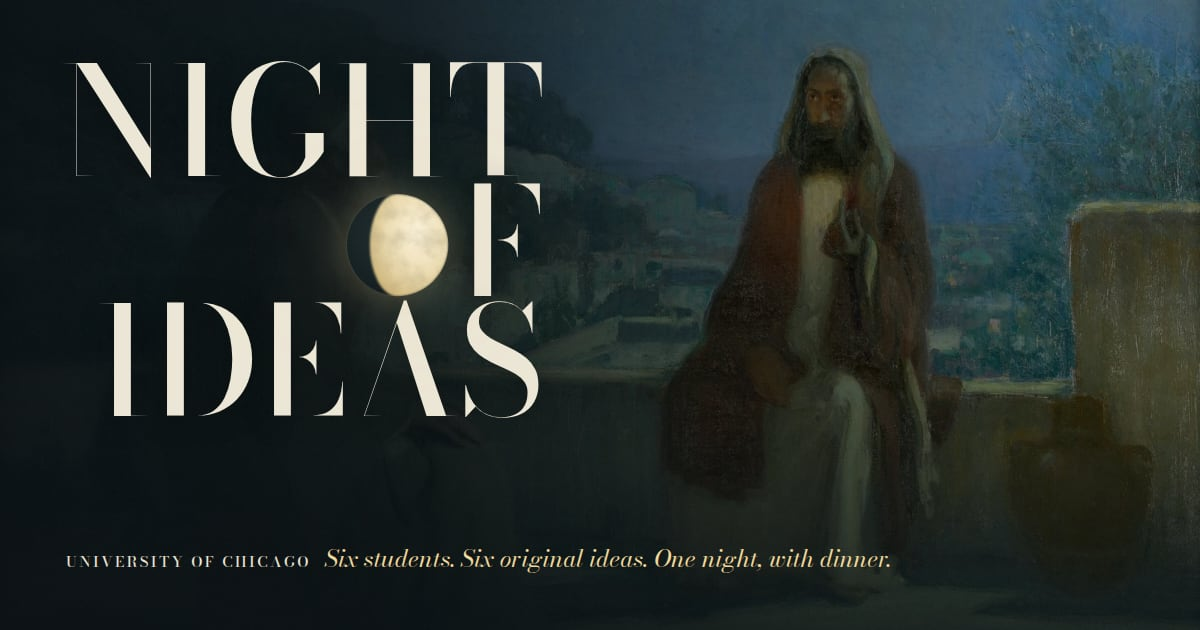
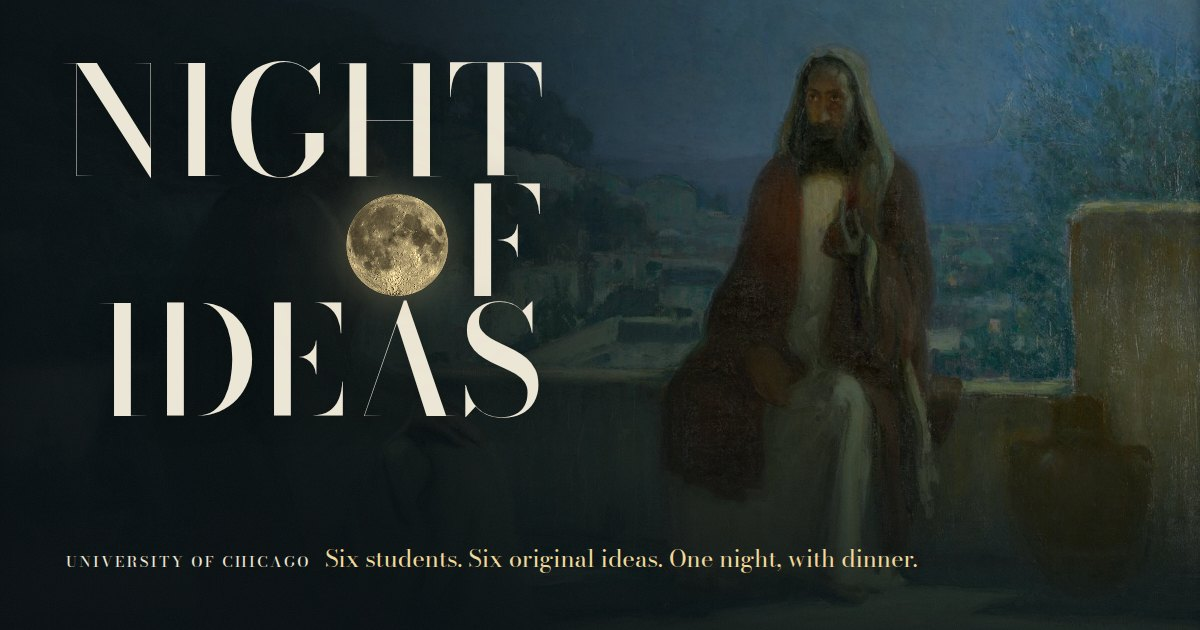
Name speakers given name first and set everything upright.
Bylines read "Cece Rodriguez" instead of "RODRIGUEZ Cece", and the
catalogue shows "name — title" with the title in the brighter tone.
Italics are gone site-wide (titles, article numbers, asides, captions),
and the link-preview image is redrawn with a full moon and an upright
tagline. DESIGN.md and README.md describe the new rules.

Claude-Session: https://claude.ai/code/session_01CcLLmcSxVBUXkM5cqfKuey

Changed region(s): [[0.2467, 0.8746, 0.7708, 0.9048], [0.2775, 0.3016, 0.37, 0.4825]]

diff --git a/index.html b/index.html
@@ -224,37 +224,37 @@
 
         <div class="cartels" data-cartels>
           <article class="cartel" data-cartel>
-            <p class="cartel__name"><span class="cartel__no">1.</span> <span class="caps">Pryma</span> Reilly</p>
+            <p class="cartel__name"><span class="cartel__no">1.</span> Reilly Pryma</p>
             <h3 class="cartel__title">Meditations on Meditations on Moloch</h3>
             <p class="cartel__desc">A reply to Scott Alexander’s essay on Moloch, the god of races to the bottom, by way of Ginsberg’s <i>Howl</i>, Socrates and Wittgenstein, and ending on Nietzsche’s charge that the will to a system is a lack of honesty.</p>
             <a class="cartel__link" href="https://docs.google.com/presentation/d/1SS0yWVlosdCCcnpw1D09NTxr96qNDYa3H1WAOxFqE1Y/edit?usp=sharing" target="_blank" rel="noopener">View the slides<span class="visually-hidden"> for Meditations on Meditations on Moloch (new tab)</span></a>
           </article>
           <article class="cartel" data-cartel>
-            <p class="cartel__name"><span class="cartel__no">2.</span> <span class="caps">Lopez Molina</span> Violeta</p>
+            <p class="cartel__name"><span class="cartel__no">2.</span> Violeta Lopez Molina</p>
             <h3 class="cartel__title">Relational Space(s): Thinking with Bubbles</h3>
             <p class="cartel__desc">Against the solitary Cartesian thinker, and the self-care influencer who may be his heir, a case from Sloterdijk’s <i>Spheres</i>: subjectivity as two or more parties open to each other.</p>
             <a class="cartel__link" href="https://docs.google.com/presentation/d/1Iz9mKYSu8uoheLjNLzFzfTCSYpkyISvw/edit?usp=sharing&amp;ouid=102077671114503182265&amp;rtpof=true&amp;sd=true" target="_blank" rel="noopener">View the slides<span class="visually-hidden"> for Relational Space(s): Thinking with Bubbles (new tab)</span></a>
           </article>
           <article class="cartel" data-cartel>
-            <p class="cartel__name"><span class="cartel__no">3.</span> <span class="caps">Rodriguez</span> Cece</p>
+            <p class="cartel__name"><span class="cartel__no">3.</span> Cece Rodriguez</p>
             <h3 class="cartel__title">Being After God</h3>
             <p class="cartel__desc">Heidegger’s history of Being read as a history of nihilism: from Plato’s two worlds, through Nietzsche and the death of God, to what there is left to do.</p>
             <a class="cartel__link" href="https://docs.google.com/presentation/d/13Kh0zhUCs1kIHJUQSlHZTBn3w5zzzy_K2cqirZG8eKI/edit?usp=sharing" target="_blank" rel="noopener">View the slides<span class="visually-hidden"> for Being After God (new tab)</span></a>
           </article>
           <article class="cartel" data-cartel>
-            <p class="cartel__name"><span class="cartel__no">4.</span> <span class="caps">Quek</span> Shawn</p>
+            <p class="cartel__name"><span class="cartel__no">4.</span> Shawn Quek</p>
             <h3 class="cartel__title">Frats &amp; Butlerian Brotherhood</h3>
             <p class="cartel__desc">Fraternal community and masculine performativity, read through Judith Butler, followed by the offended, the critics and the validated, ending on a puzzle.</p>
             <a class="cartel__link" href="https://docs.google.com/presentation/d/1JxJyHOG362gN1ASZHkTMVCdQNswj5mI6/edit?usp=sharing&amp;ouid=102077671114503182265&amp;rtpof=true&amp;sd=true" target="_blank" rel="noopener">View the slides<span class="visually-hidden"> for Frats and Butlerian Brotherhood (new tab)</span></a>
           </article>
           <article class="cartel" data-cartel>
-            <p class="cartel__name"><span class="cartel__no">5.</span> <span class="caps">Lee</span> Noah</p>
+            <p class="cartel__name"><span class="cartel__no">5.</span> Noah Lee</p>
             <h3 class="cartel__title">Minecraft Democracy</h3>
             <p class="cartel__desc">“I started the largest direct democracy in Minecraft history.” Its rise, coup, and collapse, and what the simulation suggests about the state of nature, hyper-online politics, and our own world.</p>
             <a class="cartel__link" href="https://docs.google.com/presentation/d/1rr6byTItzAnvl8Jy5PTz5A5KCxLAaAU_WzdNoThCmtY/edit?usp=sharing" target="_blank" rel="noopener">View the slides<span class="visually-hidden"> for Minecraft Democracy (new tab)</span></a>
           </article>
           <article class="cartel" data-cartel>
-            <p class="cartel__name"><span class="cartel__no">6.</span> <span class="caps">Miele</span> Ben</p>
+            <p class="cartel__name"><span class="cartel__no">6.</span> Ben Miele</p>
             <h3 class="cartel__title">Poetry and Recorded Music</h3>
             <p class="cartel__desc">If our tastes haven’t changed since 1870, why did poetry lose its readers and grow strange? The phonograph: once recorded music could satisfy the appetite for structured language, poetry made itself unsingable, much as painting stopped imitating reality once photography arrived.</p>
             <a class="cartel__link" href="https://drive.google.com/file/d/1-dcGc1nfGQzXbfjJJ_neOKI1l-GnbH-O/view?usp=sharing" target="_blank" rel="noopener">View the slides<span class="visually-hidden"> for Poetry and Recorded Music (new tab)</span></a>
@@ -270,12 +270,12 @@
         <nav class="catalogue" aria-label="Catalogue of past talks" data-catalogue hidden>
           <h3 class="catalogue__title">Catalogue</h3>
           <ol class="catalogue__list">
-            <li><button type="button" data-goto="0"><span class="catalogue__no">1.</span> <span class="caps">Pryma</span> Reilly. <i>Meditations on Meditations on Moloch</i></button></li>
-            <li><button type="button" data-goto="1"><span class="catalogue__no">2.</span> <span class="caps">Lopez Molina</span> Violeta. <i>Relational Space(s): Thinking with Bubbles</i></button></li>
-            <li><button type="button" data-goto="2"><span class="catalogue__no">3.</span> <span class="caps">Rodriguez</span> Cece. <i>Being After God</i></button></li>
-            <li><button type="button" data-goto="3"><span class="catalogue__no">4.</span> <span class="caps">Quek</span> Shawn. <i>Frats &amp; Butlerian Brotherhood</i></button></li>
-            <li><button type="button" data-goto="4"><span class="catalogue__no">5.</span> <span class="caps">Lee</span> Noah. <i>Minecraft Democracy</i></button></li>
-            <li><button type="button" data-goto="5"><span class="catalogue__no">6.</span> <span class="caps">Miele</span> Ben. <i>Poetry and Recorded Music</i></button></li>
+            <li><button type="button" data-goto="0"><span class="catalogue__no">1.</span> Reilly Pryma — <i>Meditations on Meditations on Moloch</i></button></li>
+            <li><button type="button" data-goto="1"><span class="catalogue__no">2.</span> Violeta Lopez Molina — <i>Relational Space(s): Thinking with Bubbles</i></button></li>
+            <li><button type="button" data-goto="2"><span class="catalogue__no">3.</span> Cece Rodriguez — <i>Being After God</i></button></li>
+            <li><button type="button" data-goto="3"><span class="catalogue__no">4.</span> Shawn Quek — <i>Frats &amp; Butlerian Brotherhood</i></button></li>
+            <li><button type="button" data-goto="4"><span class="catalogue__no">5.</span> Noah Lee — <i>Minecraft Democracy</i></button></li>
+            <li><button type="button" data-goto="5"><span class="catalogue__no">6.</span> Ben Miele — <i>Poetry and Recorded Music</i></button></li>
           </ol>
         </nav>
 

diff --git a/assets/css/style.css b/assets/css/style.css
@@ -146,7 +146,8 @@ a { color: inherit; }
 
 h1, h2, h3, p { margin: 0; }
 
-i, em { font-style: italic; }
+/* No italics on this site: titles of works stand apart by colour, never by slant. */
+i, em { font-style: normal; }
 
 .visually-hidden {
   position: absolute !important;
@@ -160,12 +161,6 @@ i, em { font-style: italic; }
   border: 0;
   text-transform: none;
   letter-spacing: normal;
-}
-
-.caps {
-  text-transform: uppercase;
-  letter-spacing: 0.1em;
-  font-size: 0.86em;
 }
 
 .skip {
@@ -479,7 +474,6 @@ i, em { font-style: italic; }
   margin-top: clamp(22px, 3.2vh, 36px);
   max-width: 31em;
   font-family: var(--display);
-  font-style: italic;
   font-variation-settings: "opsz" 20;
   font-size: clamp(1rem, 1.3vw, 1.1875rem);
   line-height: 1.45;
@@ -869,7 +863,6 @@ i, em { font-style: italic; }
 }
 .cartel__no {
   font-family: var(--display);
-  font-style: italic;
   font-variation-settings: "opsz" 11;
   font-variant-numeric: lining-nums;
   color: var(--gilt-hi);
@@ -887,7 +880,6 @@ i, em { font-style: italic; }
 .cartel__title {
   margin-top: 12px;
   font-family: var(--display);
-  font-style: italic;
   font-weight: 500;
   font-variation-settings: "opsz" 22;
   font-size: clamp(1.75rem, 3vw, 2.6rem);
@@ -898,7 +890,6 @@ i, em { font-style: italic; }
 .cartel__sub {
   margin-top: 6px;
   font-family: var(--display);
-  font-style: italic;
   font-variation-settings: "opsz" 20;
   font-size: 1.0625rem;
   color: var(--claret-text-2);
@@ -988,6 +979,7 @@ i, em { font-style: italic; }
   transform-origin: left;
   transition: transform 0.3s var(--ease-out);
 }
+.catalogue__list i { color: var(--claret-text); transition: color 0.2s ease; }
 .catalogue__list button[aria-current="true"] { color: var(--claret-text); }
 .catalogue__list button[aria-current="true"]::before { transform: scaleX(1); }
 .catalogue__list button[aria-current="true"] i { color: var(--gilt-hi); }
@@ -1009,7 +1001,6 @@ i, em { font-style: italic; }
 }
 .hors-concours__term {
   font-family: var(--display);
-  font-style: italic;
   font-variation-settings: "opsz" 20;
   color: var(--gilt-hi);
 }
@@ -1072,7 +1063,6 @@ i, em { font-style: italic; }
   letter-spacing: -0.004em;
 }
 .article__no {
-  font-style: italic;
   font-weight: 400;
   font-variation-settings: "opsz" 11;
   color: var(--gilt);
@@ -1146,7 +1136,6 @@ i, em { font-style: italic; }
 .annunciation__aside {
   margin-top: 22px;
   font-family: var(--display);
-  font-style: italic;
   font-variation-settings: "opsz" 20;
   font-size: 1.0625rem;
   color: var(--umber-text-2);

diff --git a/DESIGN.md b/DESIGN.md
@@ -111,7 +111,7 @@ components:
 
 Night of Ideas is presented as a juried Salon held after dark, and the site is its livret, the catalogue a visitor carried through the galleries. The ground is Henry Ossawa Tanner's nocturne blue-green, nearly black. Text is moonlight, never pure white. Everything precious is gilt, and gilt is a material, never a gradient: carved frames come from a photograph of a real Louis XIV-style frame, and buttons and the picture rail are honest flat gold with a dark rim. The page moves through rooms: the rooftop nocturne, the claret Salon wall where past talks hang frame to frame on cords, the règlement beside a lamp-lit plate, and the Annunciation's warm room for applying.
 
-Imagery is real and credited: public-domain paintings, real title slides from past talks, and a NASA lunar photograph for the moon that stands in for the O in the logo. Typography is a 19th-century Didone (Bodoni Moda) for display and an Old Standard "modern" text face for reading. Both are set the way a catalogue is set: SURNAME (Given) bylines, numbered entries, italic titles of works, run-in article numbers.
+Imagery is real and credited: public-domain paintings, real title slides from past talks, and a NASA lunar photograph for the moon that stands in for the O in the logo. Typography is a 19th-century Didone (Bodoni Moda) for display and an Old Standard "modern" text face for reading. Both are set the way a catalogue is set: given-name-first bylines, numbered entries, upright titles of works, run-in article numbers.
 
 Motion is lamplight and drift. The name surfaces from blur as the moon waxes into its O. Plates unveil top-down. The gallery wall moves on a spring, and its frames swing slightly on their cords. Every animation has a reduced-motion path that keeps all content visible.
 
@@ -152,23 +152,25 @@ The palette is a night gallery: one near-black blue-green ground, warm moonlit t
 ## Typography
 
 **Display Font:** Bodoni Moda (variable, opsz 6–96, wght 400–900), with Bodoni 72 and Didot as fallbacks
-**Body Font:** Old Standard TT (400, 400 italic, 700), with Georgia as fallback
+**Body Font:** Old Standard TT (400, 700), with Georgia as fallback
 
-**Character:** A Didot-era display face paired with a 19th-century "modern" book face, the type a Salon livret was actually printed in. Italics carry titles of works. Small capitals with tracking carry bylines and labels.
+**Character:** A Didot-era display face paired with a 19th-century "modern" book face, the type a Salon livret was actually printed in. Everything is set upright: the site uses no italics, so serif and slant never stack. Titles of works stand apart by colour or position. Tracked capitals carry labels.
 
 ### Hierarchy
 - **Lockup** (500, clamp(4.4rem, 12.2vw, 13.25rem), 0.8, opsz 60): the stacked NIGHT / (moon)F / IDEAS mark in the first viewport only. At this size the highest-contrast hairlines are the point.
 - **Display** (500, clamp(2.6rem, 5.4vw, 5.25rem), 0.98, opsz 30): section titles ("Past talks", "How a Night comes together", the apply question).
-- **Headline** (500 italic, clamp(1.75rem, 3vw, 2.6rem), 1.08, opsz 22): the title of a work on its cartel.
-- **Title** (500, clamp(1.5rem, 2.2vw, 2rem), 1.15, opsz 18): règlement article headings, with the italic gilt "Article I." run in on the same line.
+- **Headline** (500, clamp(1.75rem, 3vw, 2.6rem), 1.08, opsz 22): the title of a work on its cartel.
+- **Title** (500, clamp(1.5rem, 2.2vw, 2rem), 1.15, opsz 18): règlement article headings, with the gilt "Article I." run in on the same line.
 - **Body** (400, 1.125rem, 1.6): Old Standard with old-style figures. Measure runs 32–34em.
-- **Livret** (400 italic, clamp(1rem, 1.3vw, 1.1875rem), 1.45, opsz 20): the catalogue's title-page line, cartel subtitles and asides.
+- **Livret** (400, clamp(1rem, 1.3vw, 1.1875rem), 1.45, opsz 20): the catalogue's title-page line, cartel subtitles and asides.
 - **Label** (600, 0.78–0.875rem, letter-spacing 0.16–0.22em, uppercase, opsz 8): navigation, buttons, "View the slides", the catalogue title and colophon links.
 
 ### Named Rules
 **The Optical Size Rule.** The smaller the type, the lower the `opsz`. The lockup sits at 60, section titles at 30, cartel titles at 22, article heads at 18 and tracked capitals at 8. High-contrast settings below display size lose their hairlines on 1x screens.
 
-**The Livret Byline Rule.** People are named the way a Salon catalogue names its artists: catalogue number, SURNAME in small caps, given name in parentheses ("3. RODRIGUEZ (Cece)"), and the title of the work in italics.
+**The Byline Rule.** People are named plainly, given name first: catalogue number, then the name ("3. Cece Rodriguez"). Never surname first, never all-caps surnames. In the catalogue index the name sits in the muted tone and the title of the work in the bright one ("3. Cece Rodriguez — Being After God").
+
+**The Upright Rule.** No italics anywhere. `i` and `em` are reset to upright; a title inside running text is set plain.
 
 ## Layout
 
@@ -202,10 +204,10 @@ Square corners throughout. Buttons, the nav Apply, frames, slips and rules are a
 - Fixed masthead, 68px. It is transparent over the hero and turns solid Nocturne with a 1px gilt hairline once the page scrolls. On the left, the moon mark and the wordmark in tracked capitals. On the right, labels with Apply as a gilt-outlined plate. The moon mark's phase tracks scroll, new at the top of the page and full at the foot. Below 720px, only the mark, "Past talks" and Apply remain.
 
 ### The Hang (signature component)
-A full-bleed claret wall. A flat gilt picture rail runs along the top. Each work hangs from a hook on two cords, in a carved gilt or ebonised frame with a linen or gilt slip, and its title slide sits under glass. The active work is centred, at full scale, and lit by a lamp pool. Neighbours scale to 0.8 and dim. The wall drags with spring physics and pointer flicks, and the frames swing up to 2.6° on their cords, then settle. Controls: drag, round gilt step buttons, ArrowLeft/Right, and a numbered catalogue index whose entries drive the wall. Clicking a side work brings it forward; clicking the lit work opens its slides. One shared cartel beneath shows the byline, italic title, subtitle, a one-to-two-sentence description and "View the slides". It cross-fades with a 4px blur. An aria-live line announces each change.
+A full-bleed claret wall. A flat gilt picture rail runs along the top. Each work hangs from a hook on two cords, in a carved gilt or ebonised frame with a linen or gilt slip, and its title slide sits under glass. The active work is centred, at full scale, and lit by a lamp pool. Neighbours scale to 0.8 and dim. The wall drags with spring physics and pointer flicks, and the frames swing up to 2.6° on their cords, then settle. Controls: drag, round gilt step buttons, ArrowLeft/Right, and a numbered catalogue index whose entries drive the wall. Clicking a side work brings it forward; clicking the lit work opens its slides. One shared cartel beneath shows the byline, title, subtitle, a one-to-two-sentence description and "View the slides". It cross-fades with a 4px blur. An aria-live line announces each change.
 
 ### Plates and painting credits
-Paintings that are not full-bleed hang as plates in the same carved frame, with a wider molding, and unveil top-down on scroll. Every painting carries a credit in small Bodoni: artist, *title* in italics, date.
+Paintings that are not full-bleed hang as plates in the same carved frame, with a wider molding, and unveil top-down on scroll. Every painting carries a credit in small Bodoni: artist, title (upright, one step brighter), date.
 
 ## Do's and Don'ts
 
@@ -213,10 +215,11 @@ Paintings that are not full-bleed hang as plates in the same carved frame, with 
 - **Do** keep text on night in the moonlight family (#ece6d6 / #bfb8a6 / #948e7f). Never use pure white.
 - **Do** use real, credited imagery: public-domain paintings, speakers' own title slides, photographic gilt and the lunar photograph.
 - **Do** lower `opsz` as type gets smaller (lockup 60 → titles 30 → cartel 22 → article heads 18 → labels 8).
-- **Do** set people and works in catalogue form: "No." numbering, SURNAME (Given), italic titles.
+- **Do** set people and works in catalogue form: "No." numbering, then Given Surname, with titles upright.
 - **Do** give every motion a reduced-motion path that leaves all content visible.
 
 ### Don't:
+- **Don't** set italics, or put a surname before a given name.
 - **Don't** fake gold with multi-stop gradients, or textures with repeating stripe gradients.
 - **Don't** stack small labels or eyebrows above headings. Numbers run in on the heading or byline line.
 - **Don't** round corners on buttons, frames or panels.

diff --git a/README.md b/README.md
@@ -29,7 +29,7 @@ python3 -m http.server 8000
 A talk appears in three places in `index.html`, and all three are marked in the "Past talks" section:
 
 1. **The frame on the wall.** Copy one `<li class="work" data-work>…</li>` block inside `<ul class="hang__wall">`. Change the slides link, the `aria-label`, the image paths and the `alt` text. For the frame, use `frame--gilt`, `frame--ebony` or `frame--wide`. Mixing them is what makes it look like a Salon hang.
-2. **The cartel (label).** Copy one `<article class="cartel" data-cartel>` block inside `<div class="cartels">`. Update the number, `SURNAME (Given name)`, the title, the one-to-two sentence description and the slides link.
+2. **The cartel (label).** Copy one `<article class="cartel" data-cartel>` block inside `<div class="cartels">`. Update the number, the name (given name first, e.g. `Cece Rodriguez`), the title, the one-to-two sentence description and the slides link.
 3. **The catalogue entry.** Copy one `<li>` in `<ol class="catalogue__list">` and set `data-goto` to the talk's position, counting from 0.
 
 Keep the three lists in the same order.
